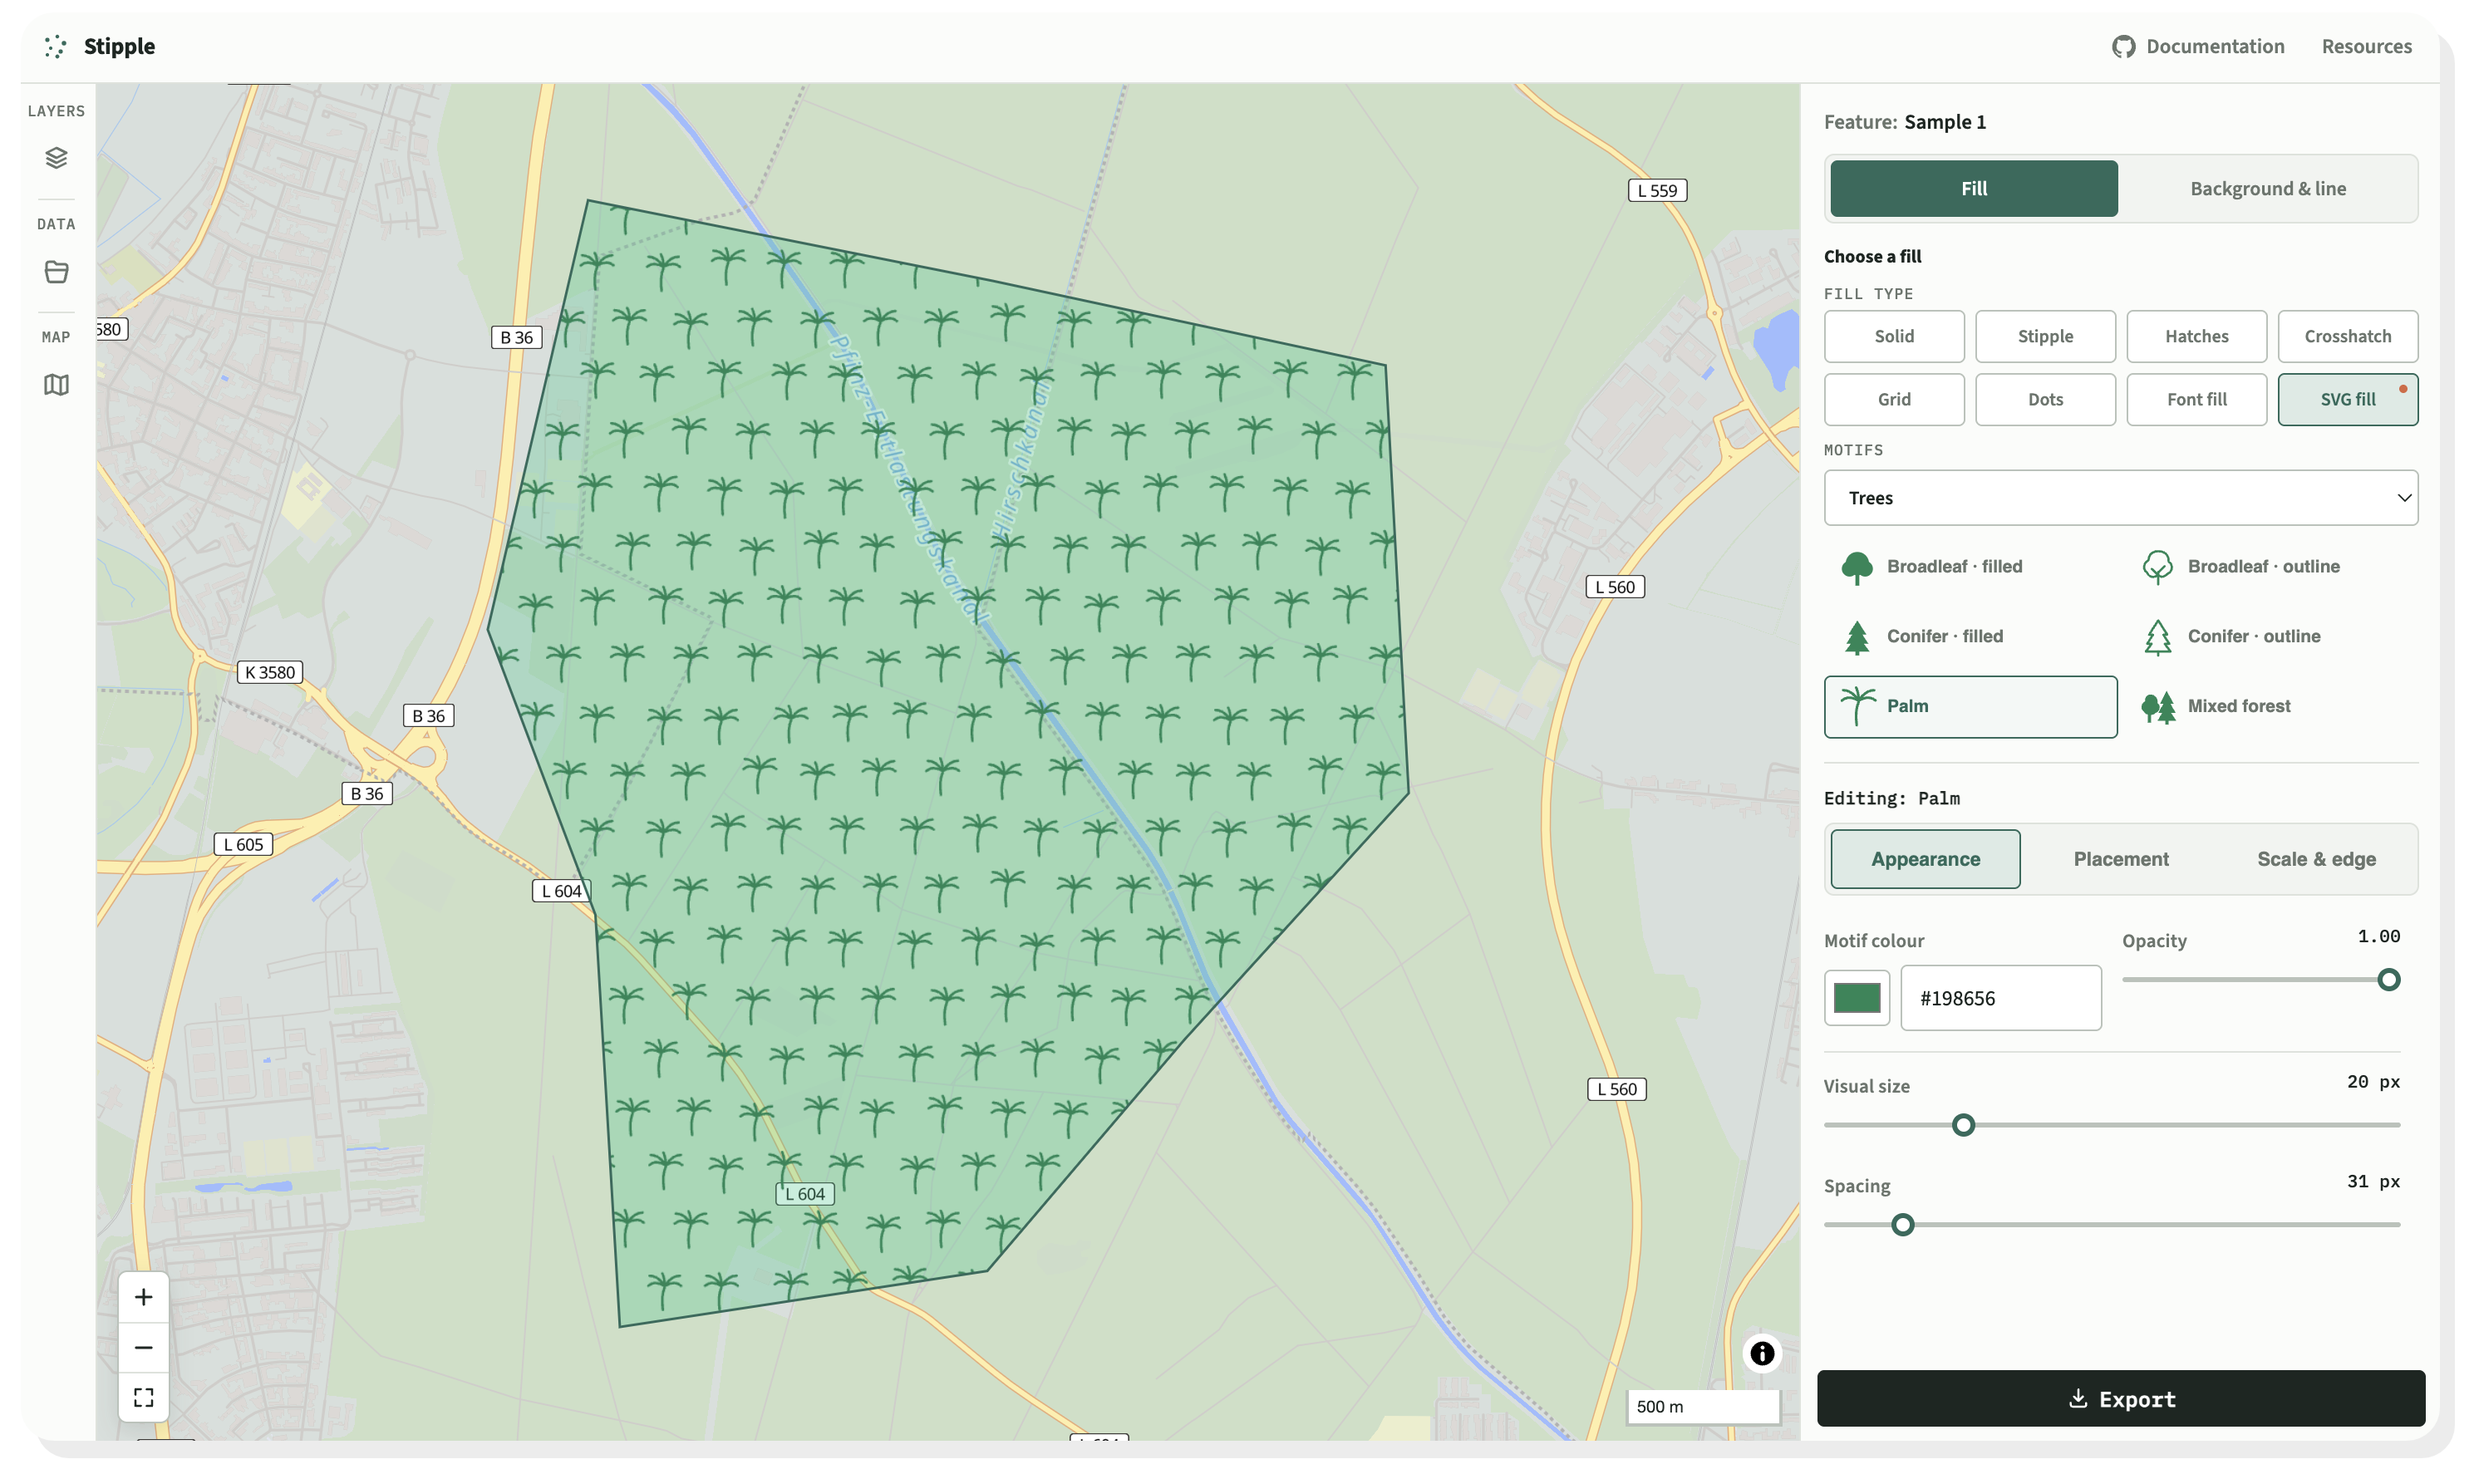
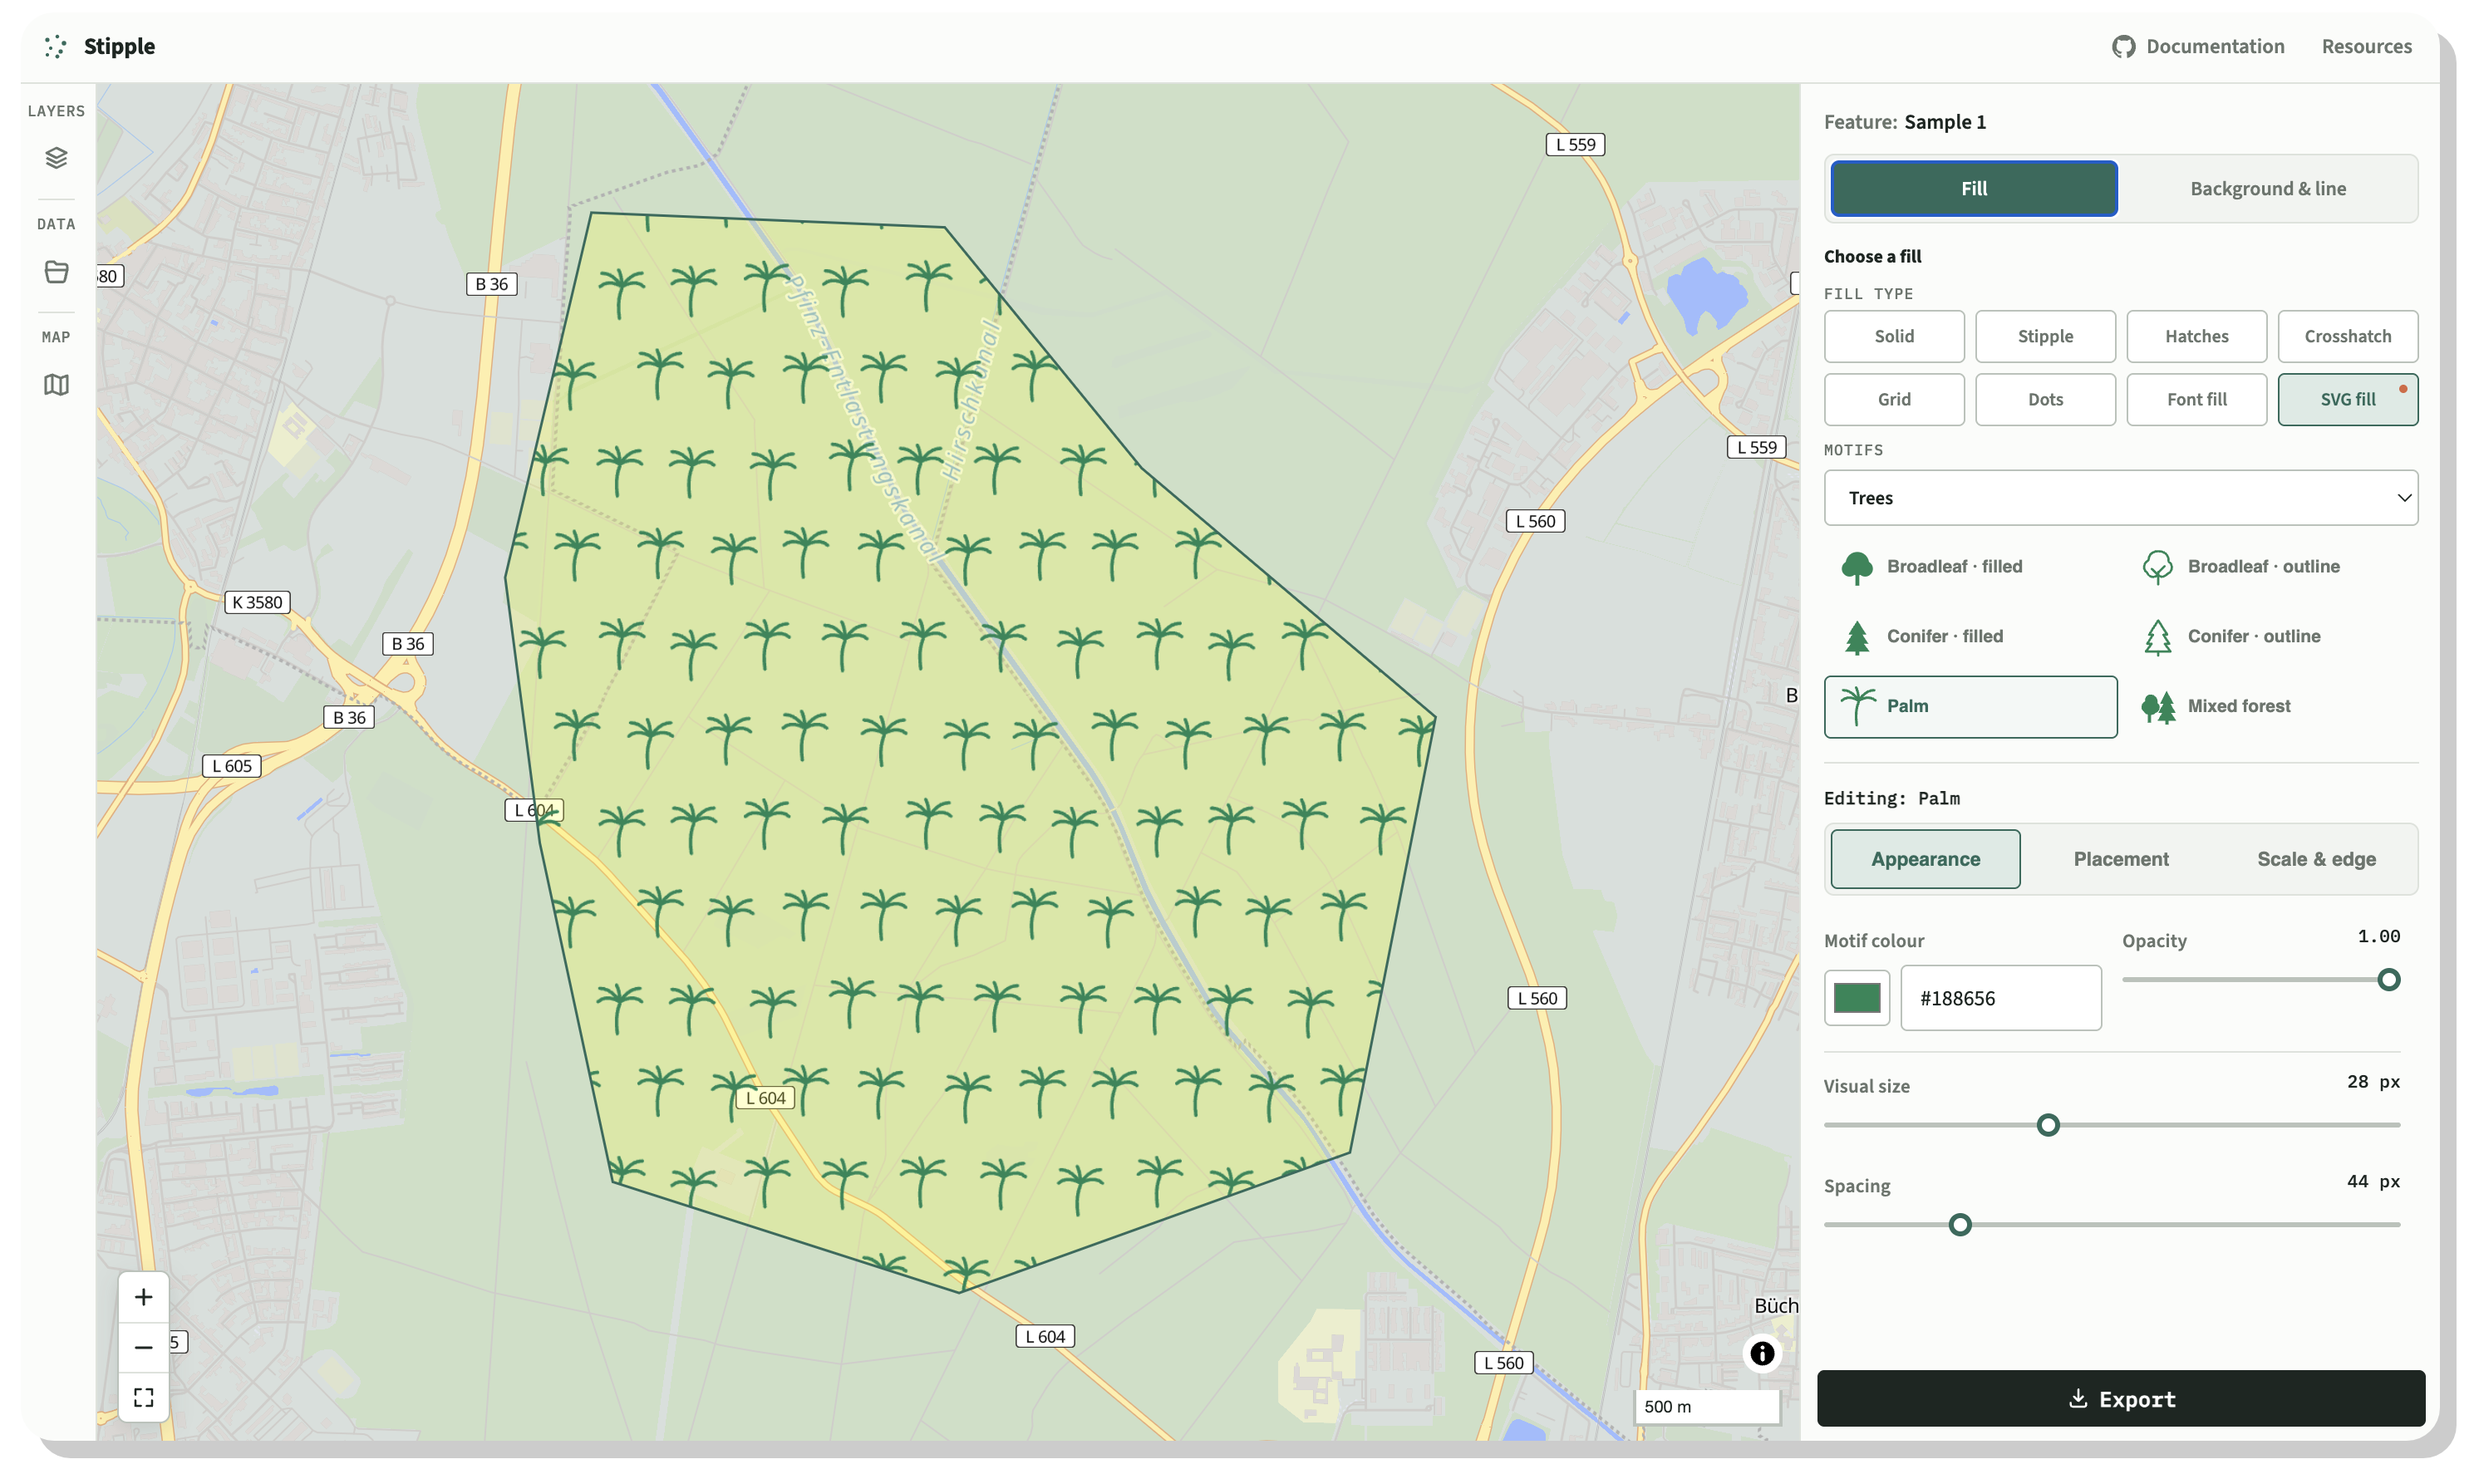
docs: clarify local setup and refresh playground image

diff --git a/README.md b/README.md
@@ -104,16 +104,17 @@ locally in the browser and are not uploaded to a server.
 
 ### Run it locally
 
-To work from the source repository, install the dependencies and build the
-library:
+From a clone of this repository, install the development dependencies and
+build Stipple:
 
 ```sh
 npm install
 npm run build
 ```
 
-Then open the local [`demo/index.html`](./demo/index.html) file in your
-browser.
+The repository itself is the `stipple-maplibre` package, so you do not need to
+install it separately. Then open the local
+[`demo/index.html`](./demo/index.html) file in your browser.
 
 ## Supported file formats
 
